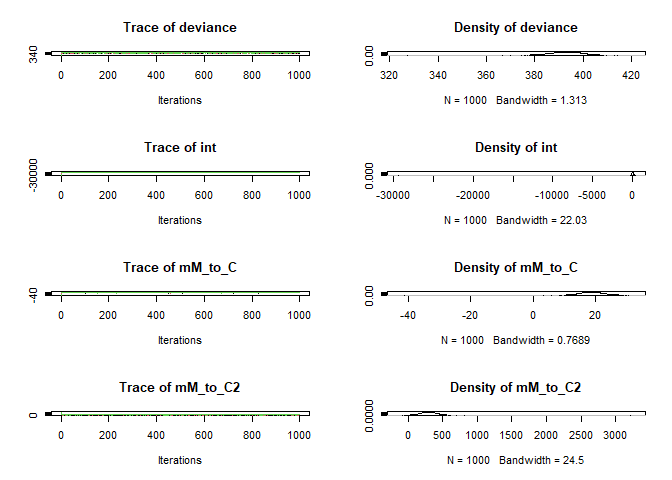
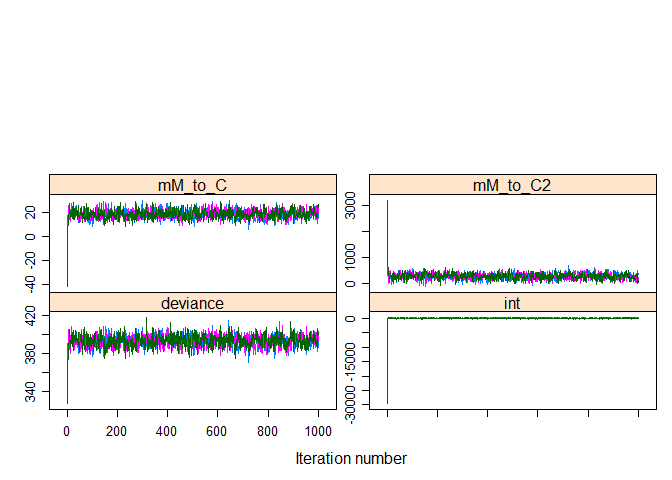
assign 8

diff --git a/Assignment8.md b/Assignment8.md
@@ -7,9 +7,9 @@ continuous and discrete variables that did not break everything.
 #Packages Used ----
 library(dplyr)
 library(R2jags)
-library(emdbook)
 library(dotwhisker)
-library(emmeans)
+library(emdbook)
+library(lattice)
 ```
 
 I removed unnecessary columns from the data because the model was
@@ -120,13 +120,20 @@ jags1 <- jags(model.file='ass8.bug',
     ## DIC is an estimate of expected predictive error (lower deviance is better).
 
 ``` r
-mm <- as.mcmc.bugs(jags1$BUGSoutput); plot(mm)
+mm <- as.mcmc.bugs(jags1$BUGSoutput)
+xyplot(mm,layout=c(2,3)) 
 ```
 
 ![](Assignment8_files/figure-markdown_github/unnamed-chunk-4-1.png)
 
 ``` r
-print(dwplot(jags1)) 
+densityplot(mm,layout=c(2,3))
 ```
 
 ![](Assignment8_files/figure-markdown_github/unnamed-chunk-4-2.png)
+
+``` r
+print(dwplot(jags1)) 
+```
+
+![](Assignment8_files/figure-markdown_github/unnamed-chunk-4-3.png)
